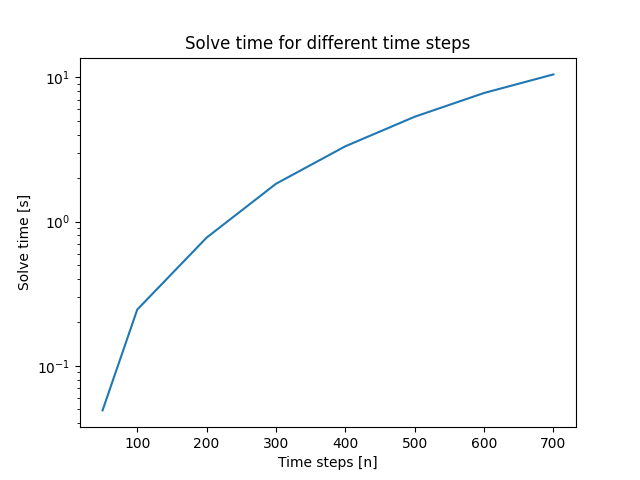
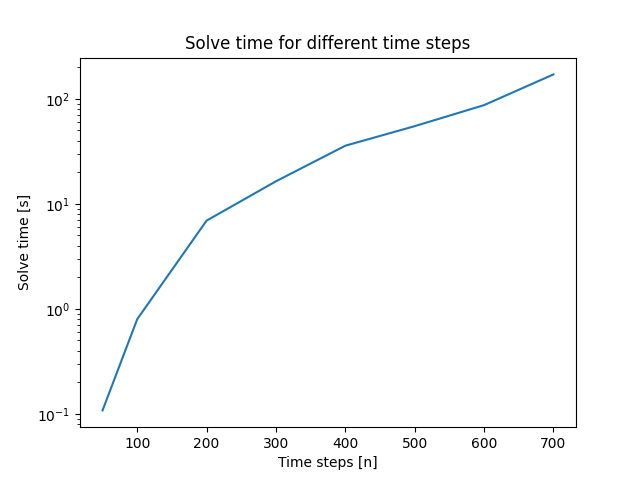
Task 3 done

diff --git a/Assignment 2/plot.py b/Assignment 2/plot.py
@@ -1,11 +1,57 @@
 import matplotlib.pyplot as plt
 
-timeSteps = [50,100,200,300,400,500,600,700]
-times = [0.04900002479553223, 0.24500012397766113,0.7730000019073486,\
-         1.8269999027252197,3.325000047683716,5.329999923706055,7.788000106811523,10.478000164031982]
+#a)
+timeSteps = [50,70,90,110,130,150,200]
+times = [0.30299997329711914, 0.7769999504089355,3.569999933242798,\
+        14.918999910354614,108.63700008392334,1576.1059999465942,3600 ]
+plt.figure()
 plt.plot(timeSteps,times)
 plt.yscale("log")
 plt.ylabel("Solve time [s]")
 plt.xlabel("Time steps [n]")
 plt.title("Solve time for different time steps")
-plt.savefig("solve_time_both_relaxed.png")
+plt.savefig("Assignment 2/solve_time_x_relaxed.png")
+
+
+
+timeSteps = [50,100,200,300,400,500,600,700]
+times = [0.10800004005432129,0.7979998588562012,\
+        6.917999982833862,16.378000020980835,35.73099994659424,54.83500003814697,\
+        86.96200013160706,170.50400018692017]
+plt.figure()
+plt.plot(timeSteps,times)
+plt.yscale("log")
+plt.ylabel("Solve time [s]")
+plt.xlabel("Time steps [n]")
+plt.title("Solve time for different time steps")
+plt.savefig("Assignment 2/solve_time_both_relaxed.png")
+
+
+#b)
+timeSteps = [50,70,90,110,130,150,200]
+obj_ip = [405,510,670,815,951,1082.0,1442]
+obj_lp = [397.5,506,650,789.666666666,901,1017.0000000000025,1346.999999999999]
+gap = [7.5,4,19.99999999999,25.333333333333333333,49.999999999999,64.9999999999975,95]
+
+
+
+plt.figure()
+plt.plot(timeSteps,obj_ip,label="Objective value, ip")
+plt.plot(timeSteps,obj_lp,label="Objective value, lp")
+plt.yscale("log")
+plt.ylabel("Solve time [s]")
+plt.xlabel("Time steps [n]")
+plt.legend()
+plt.title("Solve time for different time steps")
+plt.savefig("Assignment 2/comparison.png")
+
+
+plt.figure()
+plt.plot(timeSteps,gap,label="Gap")
+plt.yscale("log")
+plt.ylabel("Solve time [s]")
+plt.xlabel("Time steps [n]")
+plt.legend()
+plt.title("Solve time for different time steps")
+plt.savefig("Assignment 2/gap.png")
+
